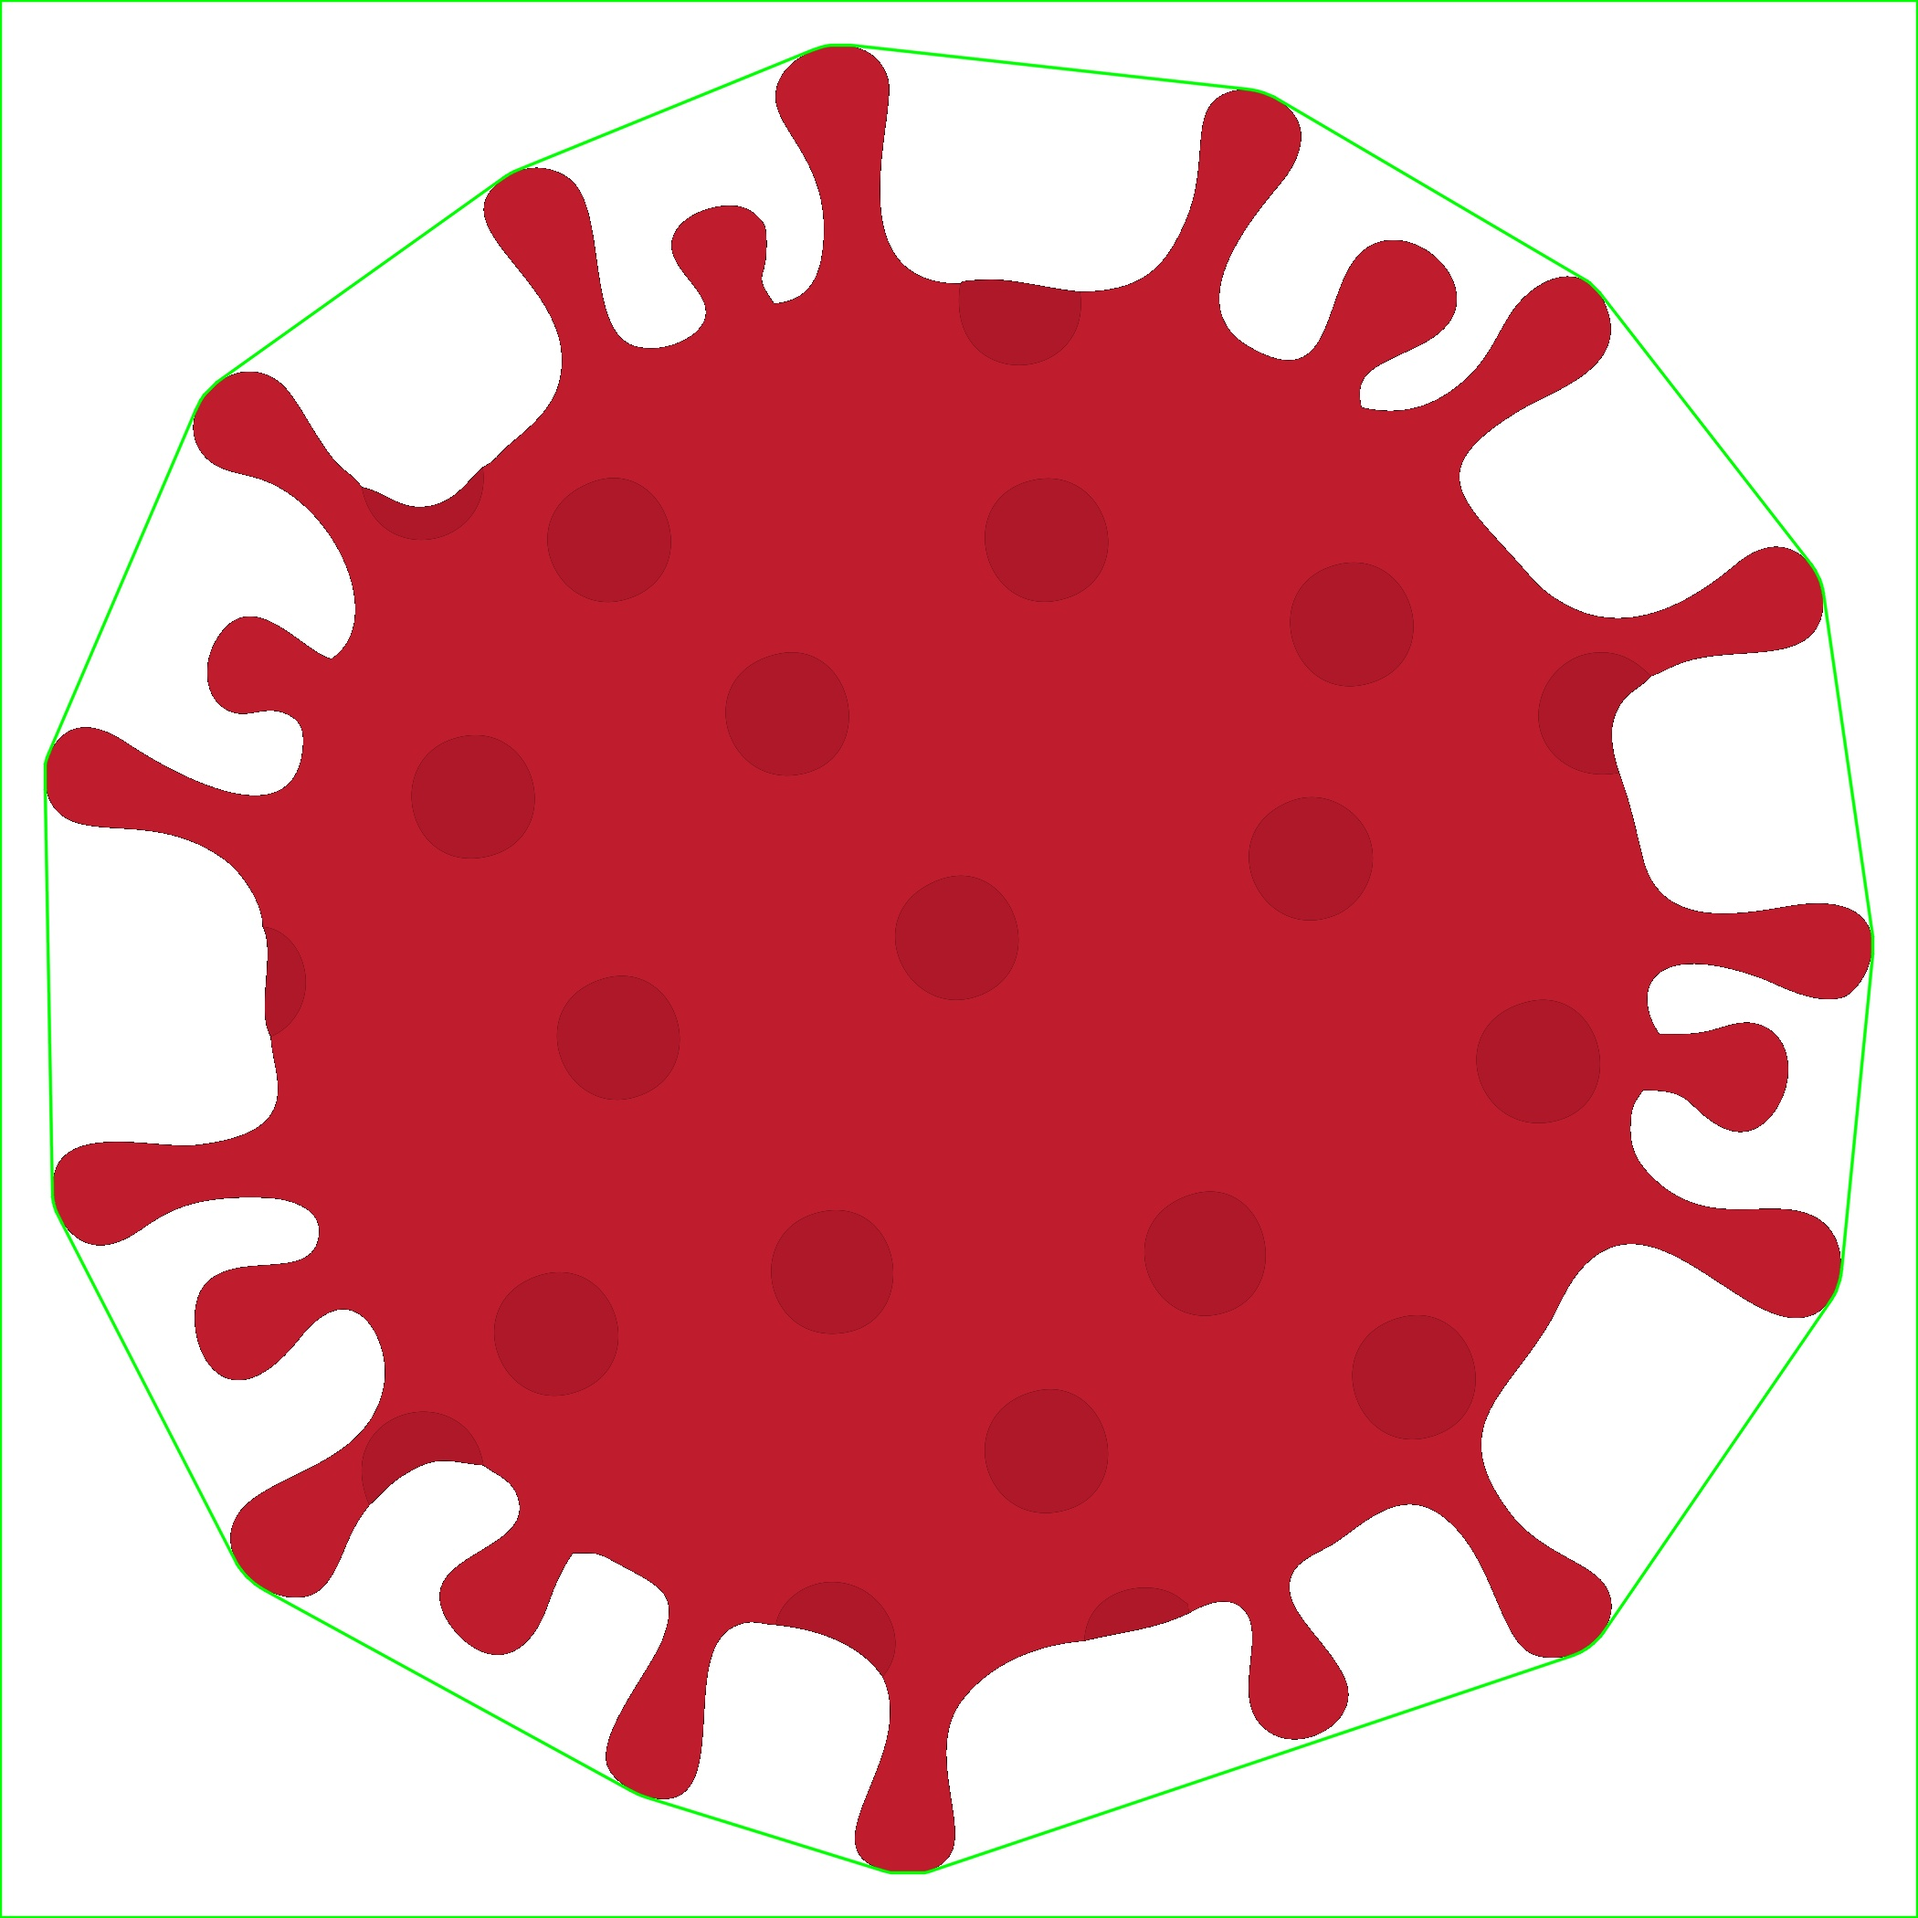
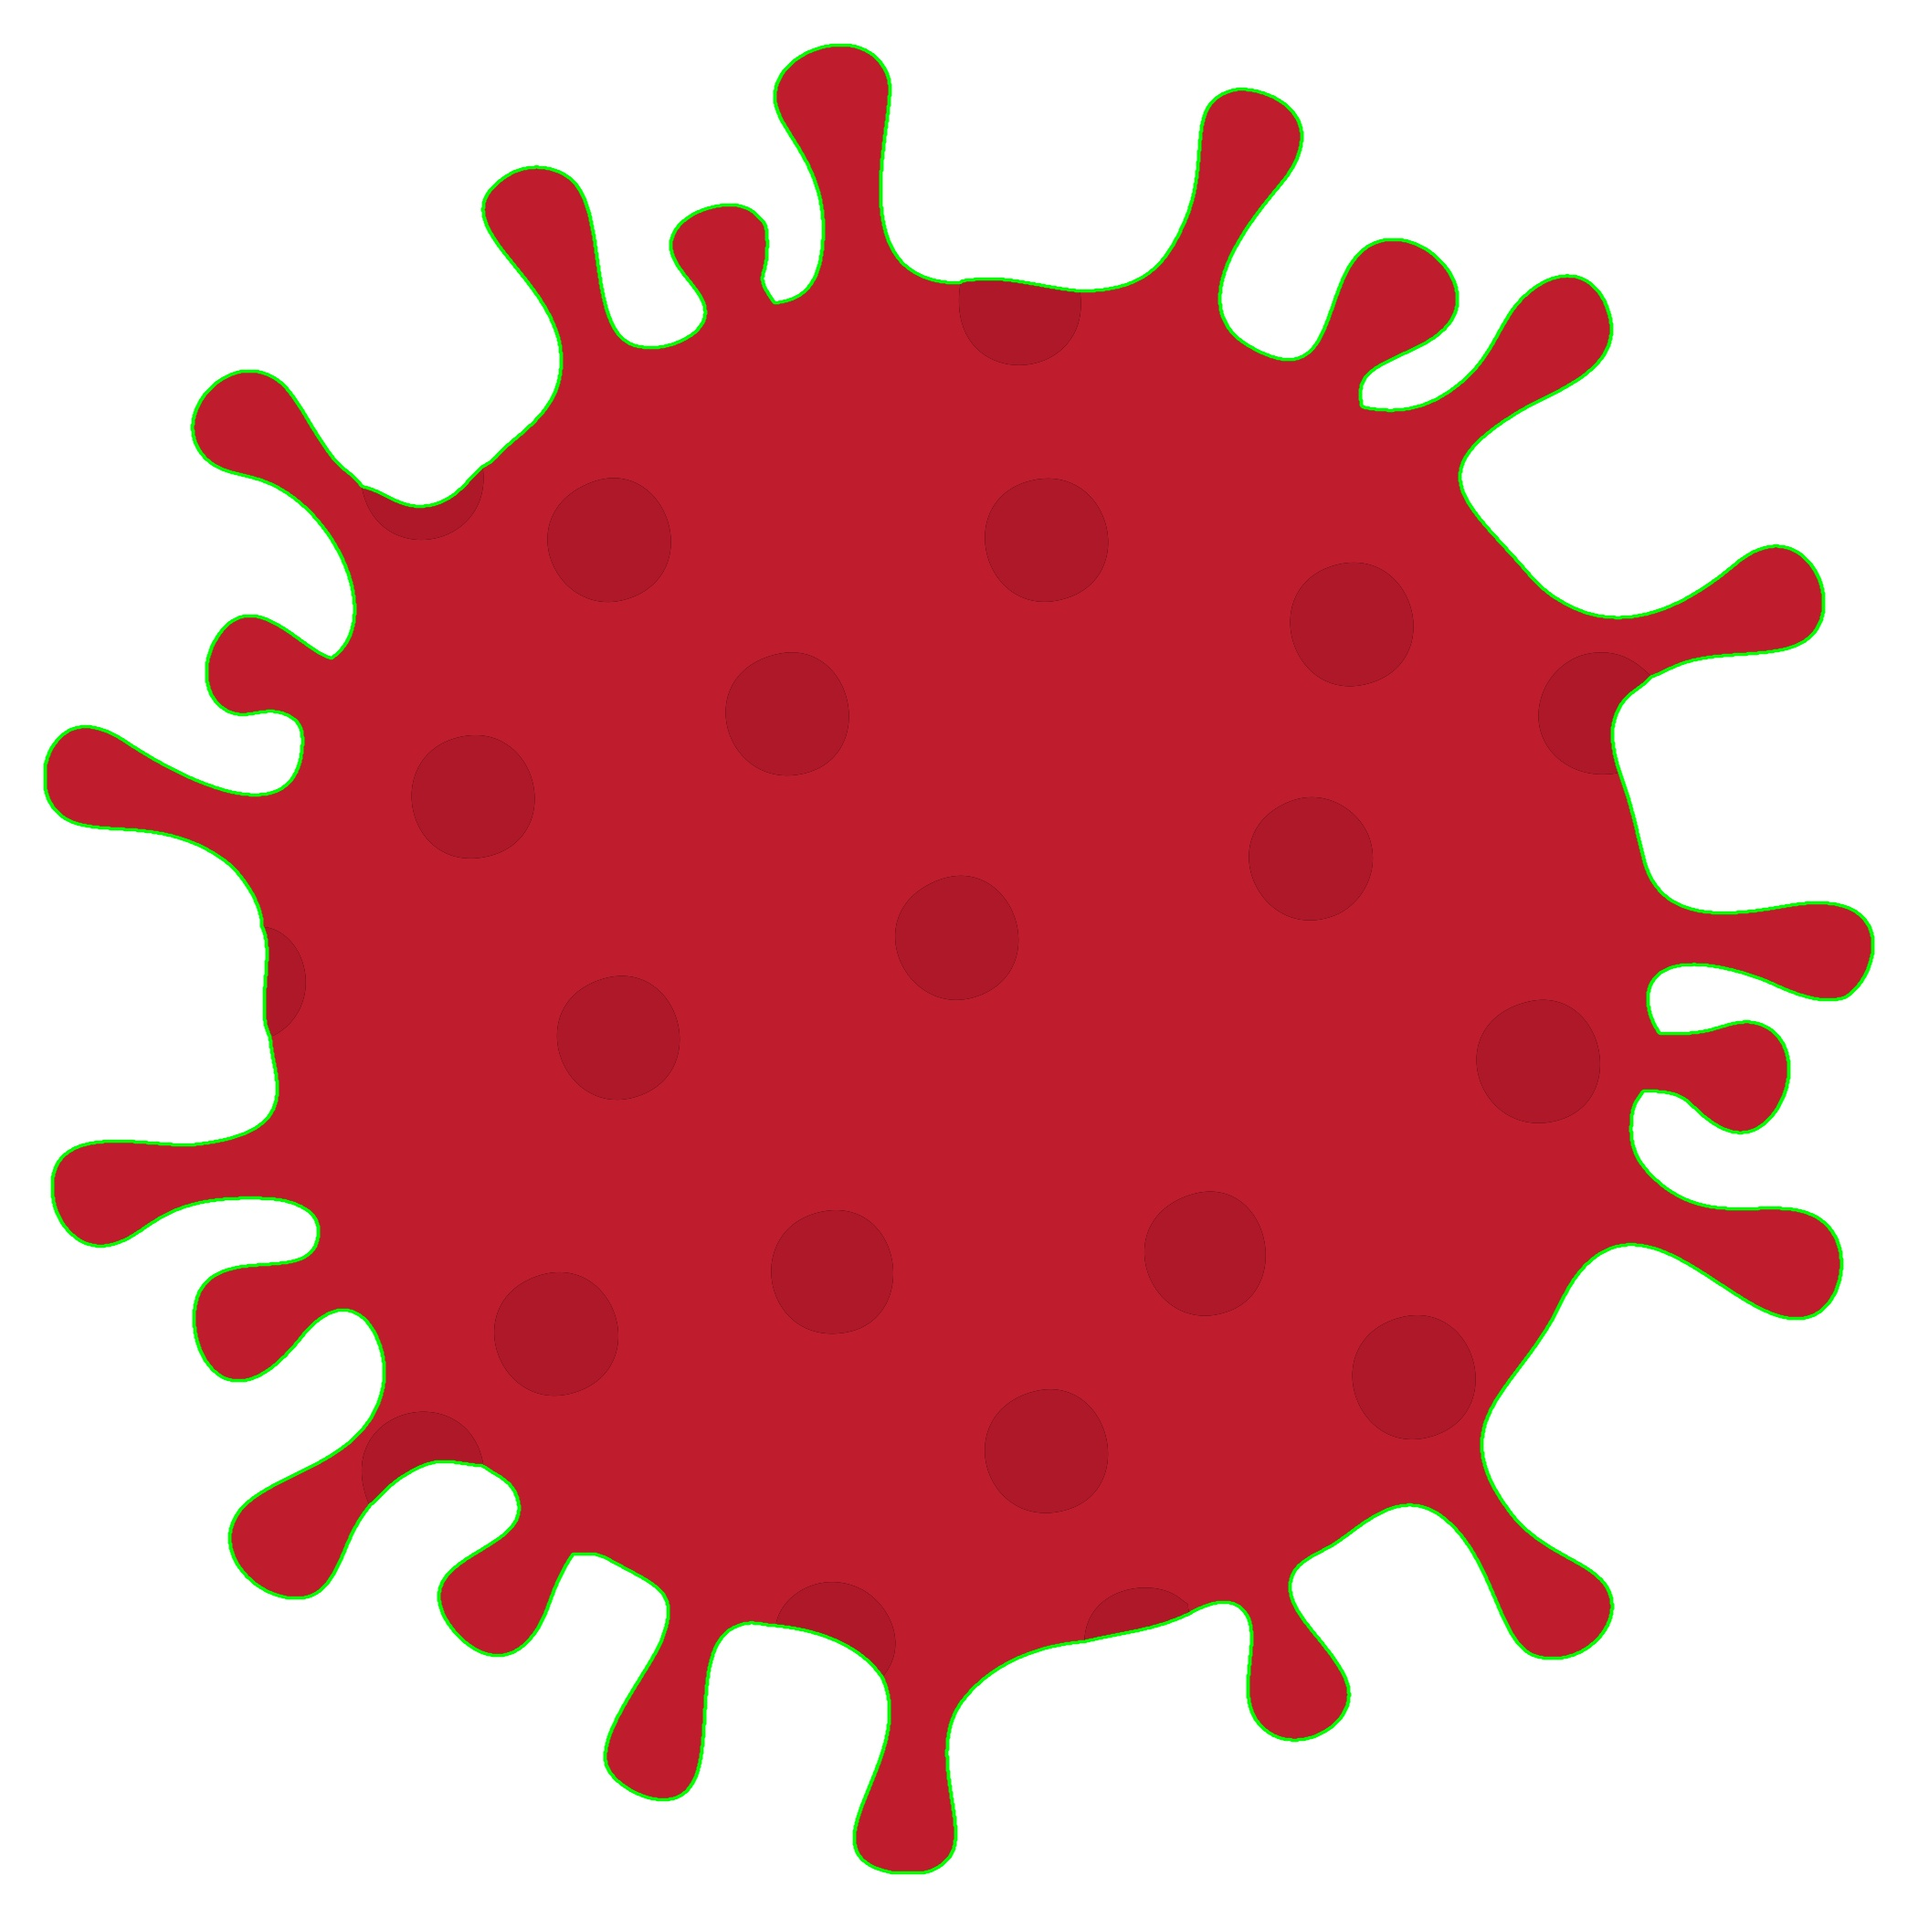
without convex

diff --git a/generate_contour.py b/generate_contour.py
@@ -16,12 +16,10 @@ contours, hierarchy = cv2.findContours(image=thresh, mode=cv2.RETR_LIST , method
                                      
 # draw contours on the original image
 image_copy = image.copy()
-for contour in contours:
-    convexHull = cv2.convexHull(contour)
-    cv2.drawContours(image=image_copy, contours=[convexHull], contourIdx=-1, color=(0, 255, 0), thickness=2, lineType=cv2.LINE_AA)
+cv2.drawContours(image=image_copy, contours=[contours[0]], contourIdx=-1, color=(0, 255, 0), thickness=2, lineType=cv2.LINE_AA)
 
 for i in range(len(contours)):
-    _contour = cv2.convexHull(contours[i])
+    _contour = contours[i]#cv2.convexHull(contours[i])
     print("Contours:")
     print('len={0}'.format(len(_contour)))
     print(_contour)
